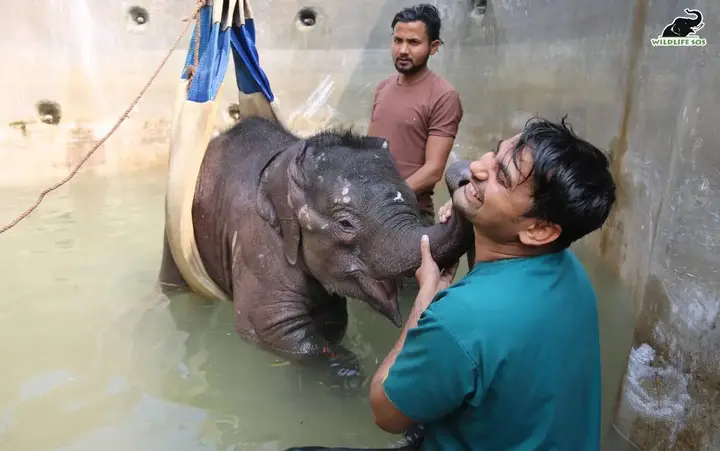
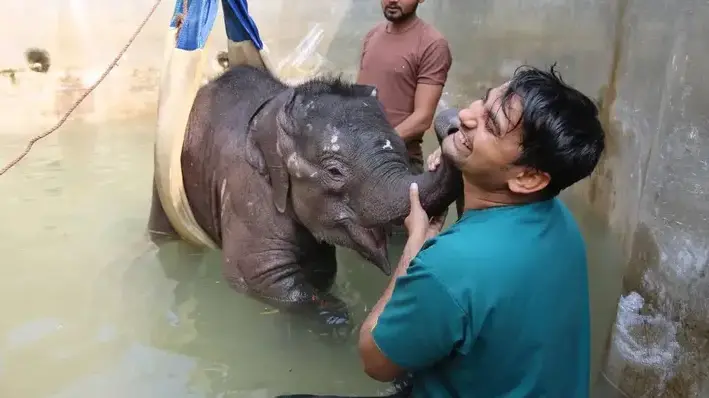
update: IG links, site config, journeys intro, and Meet Bani image
- Updated Instagram links
- Edited `site_config` to include social links
- Added intro section to Journeys page
- Updated "Meet Bani" image

diff --git a/src/components/footer.tsx b/src/components/footer.tsx
@@ -8,6 +8,7 @@ import Link from "next/link";
 import { FaDiscord, FaInstagram, FaTiktok, FaXTwitter } from "react-icons/fa6";
 import FooterBG from "../../images/footer-bg.webp";
 import { motion } from "motion/react";
+import { SITE_CONFIG } from "@/lib/site-config";
 
 export function Footer() {
   return (
@@ -103,7 +104,7 @@ export function Footer() {
               transition={{ type: "spring" }}
             >
               <Link
-                href={"https://x.com/buddiesforpaws"}
+                href={SITE_CONFIG.links.x}
                 target="_blank"
                 className="hover:text-blue-foreground block transition-all hover:scale-110"
               >
@@ -120,7 +121,7 @@ export function Footer() {
               transition={{ type: "spring" }}
             >
               <Link
-                href={"https://discord.com/invite/qaQa6M6mN2"}
+                href={SITE_CONFIG.links.discord}
                 target="_blank"
                 className="hover:text-blue-foreground block transition-all hover:scale-110"
               >
@@ -137,7 +138,7 @@ export function Footer() {
               transition={{ type: "spring" }}
             >
               <Link
-                href={"https://www.instagram.com/official_bonk_inu/"}
+                href={SITE_CONFIG.links.instagram}
                 target="_blank"
                 className="hover:text-blue-foreground block transition-all hover:scale-110"
               >
@@ -154,7 +155,7 @@ export function Footer() {
               transition={{ type: "spring" }}
             >
               <Link
-                href={"https://www.tiktok.com/@bonk.for.paws"}
+                href={SITE_CONFIG.links.tiktok}
                 target="_blank"
                 className="hover:text-blue-foreground block transition-all hover:scale-110"
               >

diff --git a/src/app/journeys/page-content.tsx b/src/app/journeys/page-content.tsx
@@ -10,6 +10,29 @@ import Link from "next/link";
 export function JourneysPageContent() {
   return (
     <div className="max-w-9xl mx-auto flex w-full flex-col gap-24 px-6 py-24 sm:px-16 sm:py-40 xl:gap-32 xl:px-24">
+      <div className="flex flex-col gap-6 sm:text-center">
+        <motion.h1
+          initial={{ opacity: 0, y: 20 }}
+          animate={{ opacity: 1, y: 0 }}
+          transition={{ type: "spring", delay: 0.2 }}
+          className="text-orange font-cooper mx-auto max-w-4xl text-5xl sm:text-7xl"
+        >
+          Meet the buddies your helping us care for
+        </motion.h1>
+        <motion.p
+          initial={{ opacity: 0, y: 20 }}
+          animate={{ opacity: 1, y: 0 }}
+          transition={{ type: "spring", delay: 0.4 }}
+          className="mx-auto max-w-4xl"
+        >
+          Through our fundraising efforts, Buddies for Paws proudly supports the
+          care of animals around the world. As part of commitment, we also are
+          also proud guardians for animals cared for by our charity partners,
+          Each one has an incredible story. Explore their journeys below to see
+          the impact Buddies for Paws support makes.
+        </motion.p>
+      </div>
+
       {JOURNEYS_CONFIG.map((journey, i) => (
         <motion.div
           id={journey.id}
@@ -33,7 +56,7 @@ export function JourneysPageContent() {
               },
             }}
             className={cn(
-              "relative z-0 aspect-video overflow-hidden rounded-lg bg-black",
+              "relative z-0 aspect-video overflow-hidden rounded-lg bg-black lg:sticky lg:top-16",
               i % 2 && "lg:order-1",
             )}
           >

diff --git a/src/app/about/page-content.tsx b/src/app/about/page-content.tsx
@@ -1,5 +1,6 @@
 "use client";
 
+import { SITE_CONFIG } from "@/lib/site-config";
 import { motion } from "motion/react";
 import Link from "next/link";
 
@@ -52,11 +53,19 @@ export function ContactPageContent() {
           For more information about buddies for Paws work, explore the rest of
           our site, subscribe to our newsletter and follow us on{" "}
           <Link
-            href="https://x.com/buddiesforpaws"
+            href={SITE_CONFIG.links.x}
             target="_blank"
             className="text-orange hover:text-blue transition-all hover:underline"
           >
             X
+          </Link>{" "}
+          and{" "}
+          <Link
+            href={SITE_CONFIG.links.instagram}
+            target="_blank"
+            className="text-orange hover:text-blue transition-all hover:underline"
+          >
+            Instagram
           </Link>
           . If you would like to get in touch we would love to hear from you,
           just head to our{" "}

diff --git a/src/app/charities/page-content.tsx b/src/app/charities/page-content.tsx
@@ -9,7 +9,7 @@ import Link from "next/link";
 export function CharitiesPageContent() {
   return (
     <div className="mx-auto flex w-full max-w-7xl flex-col gap-16 px-6 py-24 sm:px-16 sm:py-40">
-      <div className="mx-auto flex max-w-4xl flex-col items-center justify-center gap-6 text-center">
+      <div className="mx-auto flex max-w-4xl flex-col gap-6 text-center">
         <motion.h1
           initial={{ opacity: 0, y: 20 }}
           animate={{ opacity: 1, y: 0 }}

diff --git a/src/app/contact/page-content.tsx b/src/app/contact/page-content.tsx
@@ -165,7 +165,7 @@ export function ContactPageContent() {
                     <FormControl>
                       <Textarea
                         placeholder="Tell us how you'd like to get involved or ask us anything!"
-                        rows={5}
+                        rows={10}
                         {...field}
                       />
                     </FormControl>

diff --git a/src/lib/site-config.ts b/src/lib/site-config.ts
@@ -5,4 +5,10 @@ export const SITE_CONFIG = {
   url: process.env.NEXT_PUBLIC_URL as string,
   xHandle: "BONKForPaws",
   themeColor: "#FFFFFF",
+  links: {
+    x: "https://x.com/buddiesforpaws",
+    instagram: "https://www.instagram.com/buddies_for_paws/",
+    tiktok: "https://www.tiktok.com/@bonk.for.paws",
+    discord: "https://discord.com/invite/qaQa6M6mN2",
+  },
 };
